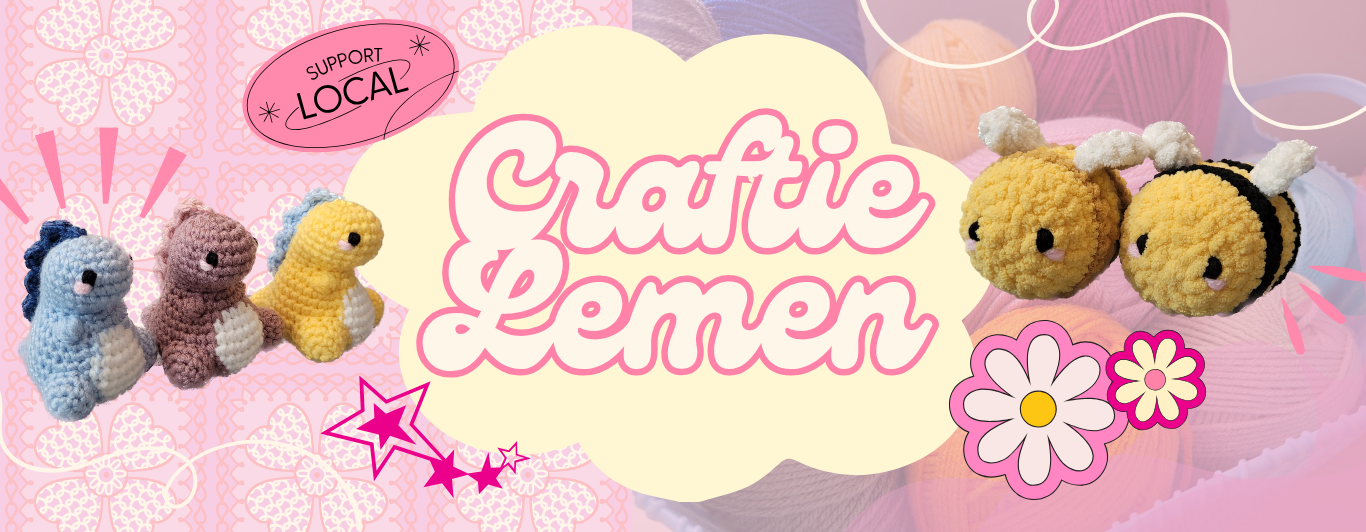
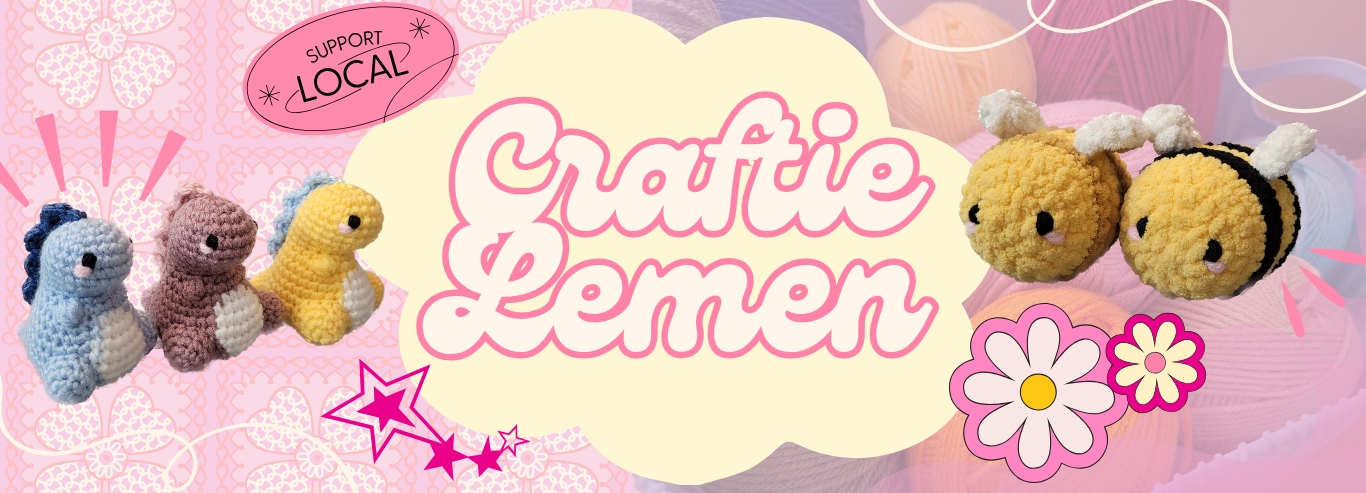
Done best sellers section of home page

diff --git a/crochet-store/src/index.css b/crochet-store/src/index.css
@@ -2,6 +2,14 @@ html, body{ /*default settings*/
   margin: 0;
   padding: 0;
 }
+
+hr.decorative-line{
+  height: 1px;
+  width: 90%;
+  background-color: #AB9CA3;
+  border-radius: 3px;
+}
+
 /*HOME PAGE*/
 .home-page{
   display: flex;
@@ -52,6 +60,7 @@ li{
 
 .header-pic{
   width: 100%;
+  margin-bottom: 0px;
 }
 
 .header-message-container{
@@ -61,6 +70,7 @@ li{
   justify-content: center;
   align-items: center;
   padding: 40px;
+  margin: -18px 20px;
 }
 
 .header-message{
@@ -69,26 +79,60 @@ li{
   font-size: clamp(16px, 2vw, 30px);
   border: 4px solid #AB9CA3;
   border-radius: 30px; 
-  padding: 45px 80px;
+  padding: 33px 80px;
   text-align: center;
   max-width: 750px;
 }
 
+.best-sellers-section{
+  padding: 10px;
+}
+
+.best-sellers-title{
+  padding: 0px 40px;
+  color: #AB9CA3;
+  font-size: 40px;
+  margin-bottom: 15px;
+}
+
+.best-sellers-product-cards{
+  display: flex;
+  flex-direction: row;
+  justify-content: center;
+  flex-wrap: wrap;
+}
+
 /*Best Sellers*/
 .card{
-  border: 1px solid black;
+  /* border: 1px solid black; */
   border-radius: 10px;
-  box-shadow: 5px 5px 5px grey;
-  padding: 20px;
-  margin: 10px;
+  box-shadow: 1px 5px 4px lightgrey;
+  padding: 25px;
+  margin: 30px;
   text-align: center;
   max-width: 250px;
   display: inline-block;
 }
 
-.productPic{
+.product-pic{
   /* width: 287.2px;
   height: 359px; */
-  max-width: 60%; /*60% of width available*/
+  max-width: 93%; /*60% of width available*/
   height: auto; 
+  border-radius: 10px;
+}
+
+.product-name{
+  font-size: 26px;
+  margin: 10px;
+  margin-bottom: 5px;
+  margin-top: 20px;
+  text-align: left;
+}
+
+.product-price{
+  font-size: 23px;
+  margin: 10px;
+  margin-top: 0px;
+  text-align: left;
 }

diff --git a/crochet-store/src/BestSellers.jsx b/crochet-store/src/BestSellers.jsx
@@ -1,0 +1,21 @@
+import ProductCard from './ProductCard.jsx'
+import blackBeePic from './assets/blackBee.jpeg'
+import poohBearPic from './assets/pooh-bear.jpeg'
+import spidermanPic from './assets/spiderman.jpeg'
+
+function BestSellers(){
+    return(
+        <div className="best-sellers-section">
+            <p className="best-sellers-title">Best Sellers</p>
+            <hr className="decorative-line"></hr>
+            <div className="best-sellers-product-cards">
+                <ProductCard image={poohBearPic} productName="Winnie the Pooh" price="$15.00"/>
+                <ProductCard image={blackBeePic} productName="Bumblebee" price="$10.00"/>
+                <ProductCard image={spidermanPic} productName="Hanging Spider-Man" price="$12.00"/>
+            </div>
+
+        </div>
+    );
+}
+
+export default BestSellers

diff --git a/crochet-store/src/ProductCard.jsx b/crochet-store/src/ProductCard.jsx
@@ -1,13 +1,15 @@
 import blackBeePic from './assets/blackBee.jpeg'
 
-function ProductCard(){
+function ProductCard(props){
     return(
         <div className="card">
-            <img className="productPic" src={blackBeePic} alt="crochet bumblebee"></img>
+            {/* <img className="productPic" src={blackBeePic} alt="crochet bumblebee"></img>
             <h2>Bumblebee</h2>
-            <p>$10.00</p>
+            <p>$10.00</p> */}
 
-            <hr></hr>
+            <img className="product-pic" src={props.image}></img>
+            <p className="product-name">{props.productName}</p>
+            <p className="product-price">{props.price}</p>
         </div>
     );
 }

diff --git a/crochet-store/src/App.jsx b/crochet-store/src/App.jsx
@@ -1,14 +1,14 @@
 import NavigationBar from './NavigationBar.jsx'
 import Header from './Header.jsx' 
+import BestSellers from './BestSellers.jsx'
 import Footer from './Footer.jsx'
-import ProductCard from './ProductCard.jsx'
 
 function App() {
     return(
         <div className="home-page">
             <NavigationBar/>
             <Header/>
-            <ProductCard/>
+            <BestSellers/>
             <Footer/>
         </div>
         //enclose all components in a fragment, an empty set of angled brackets
